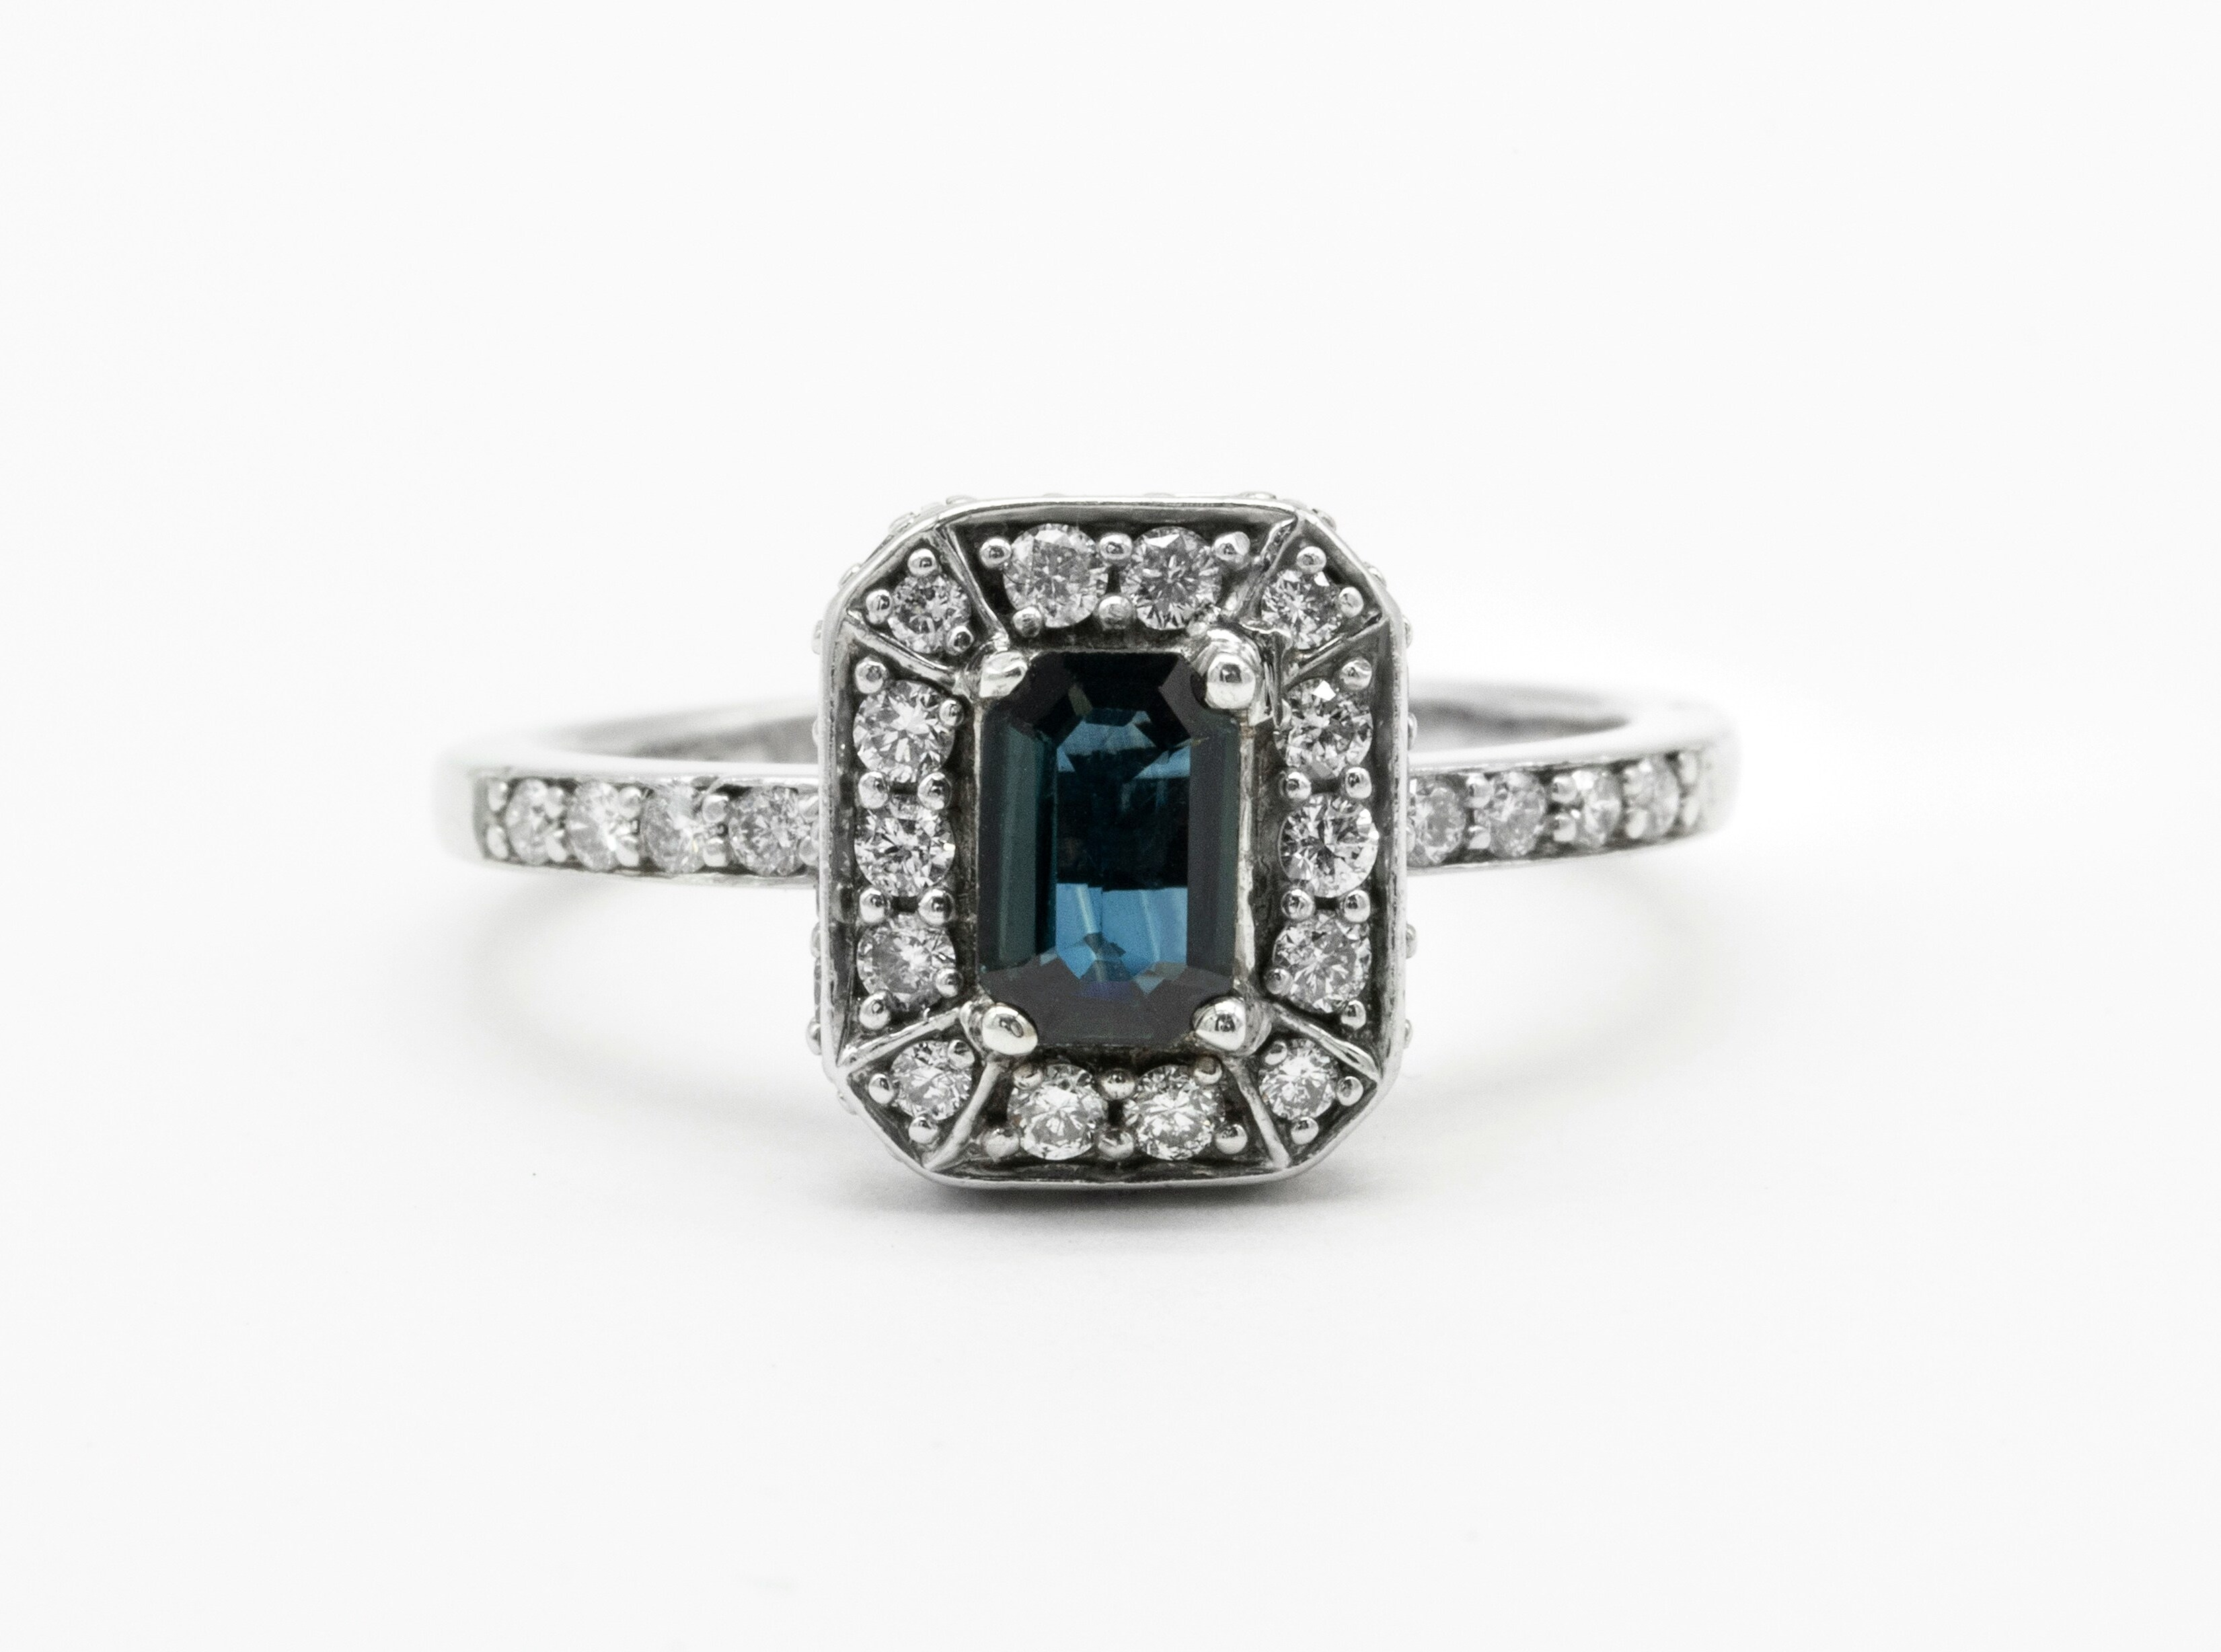
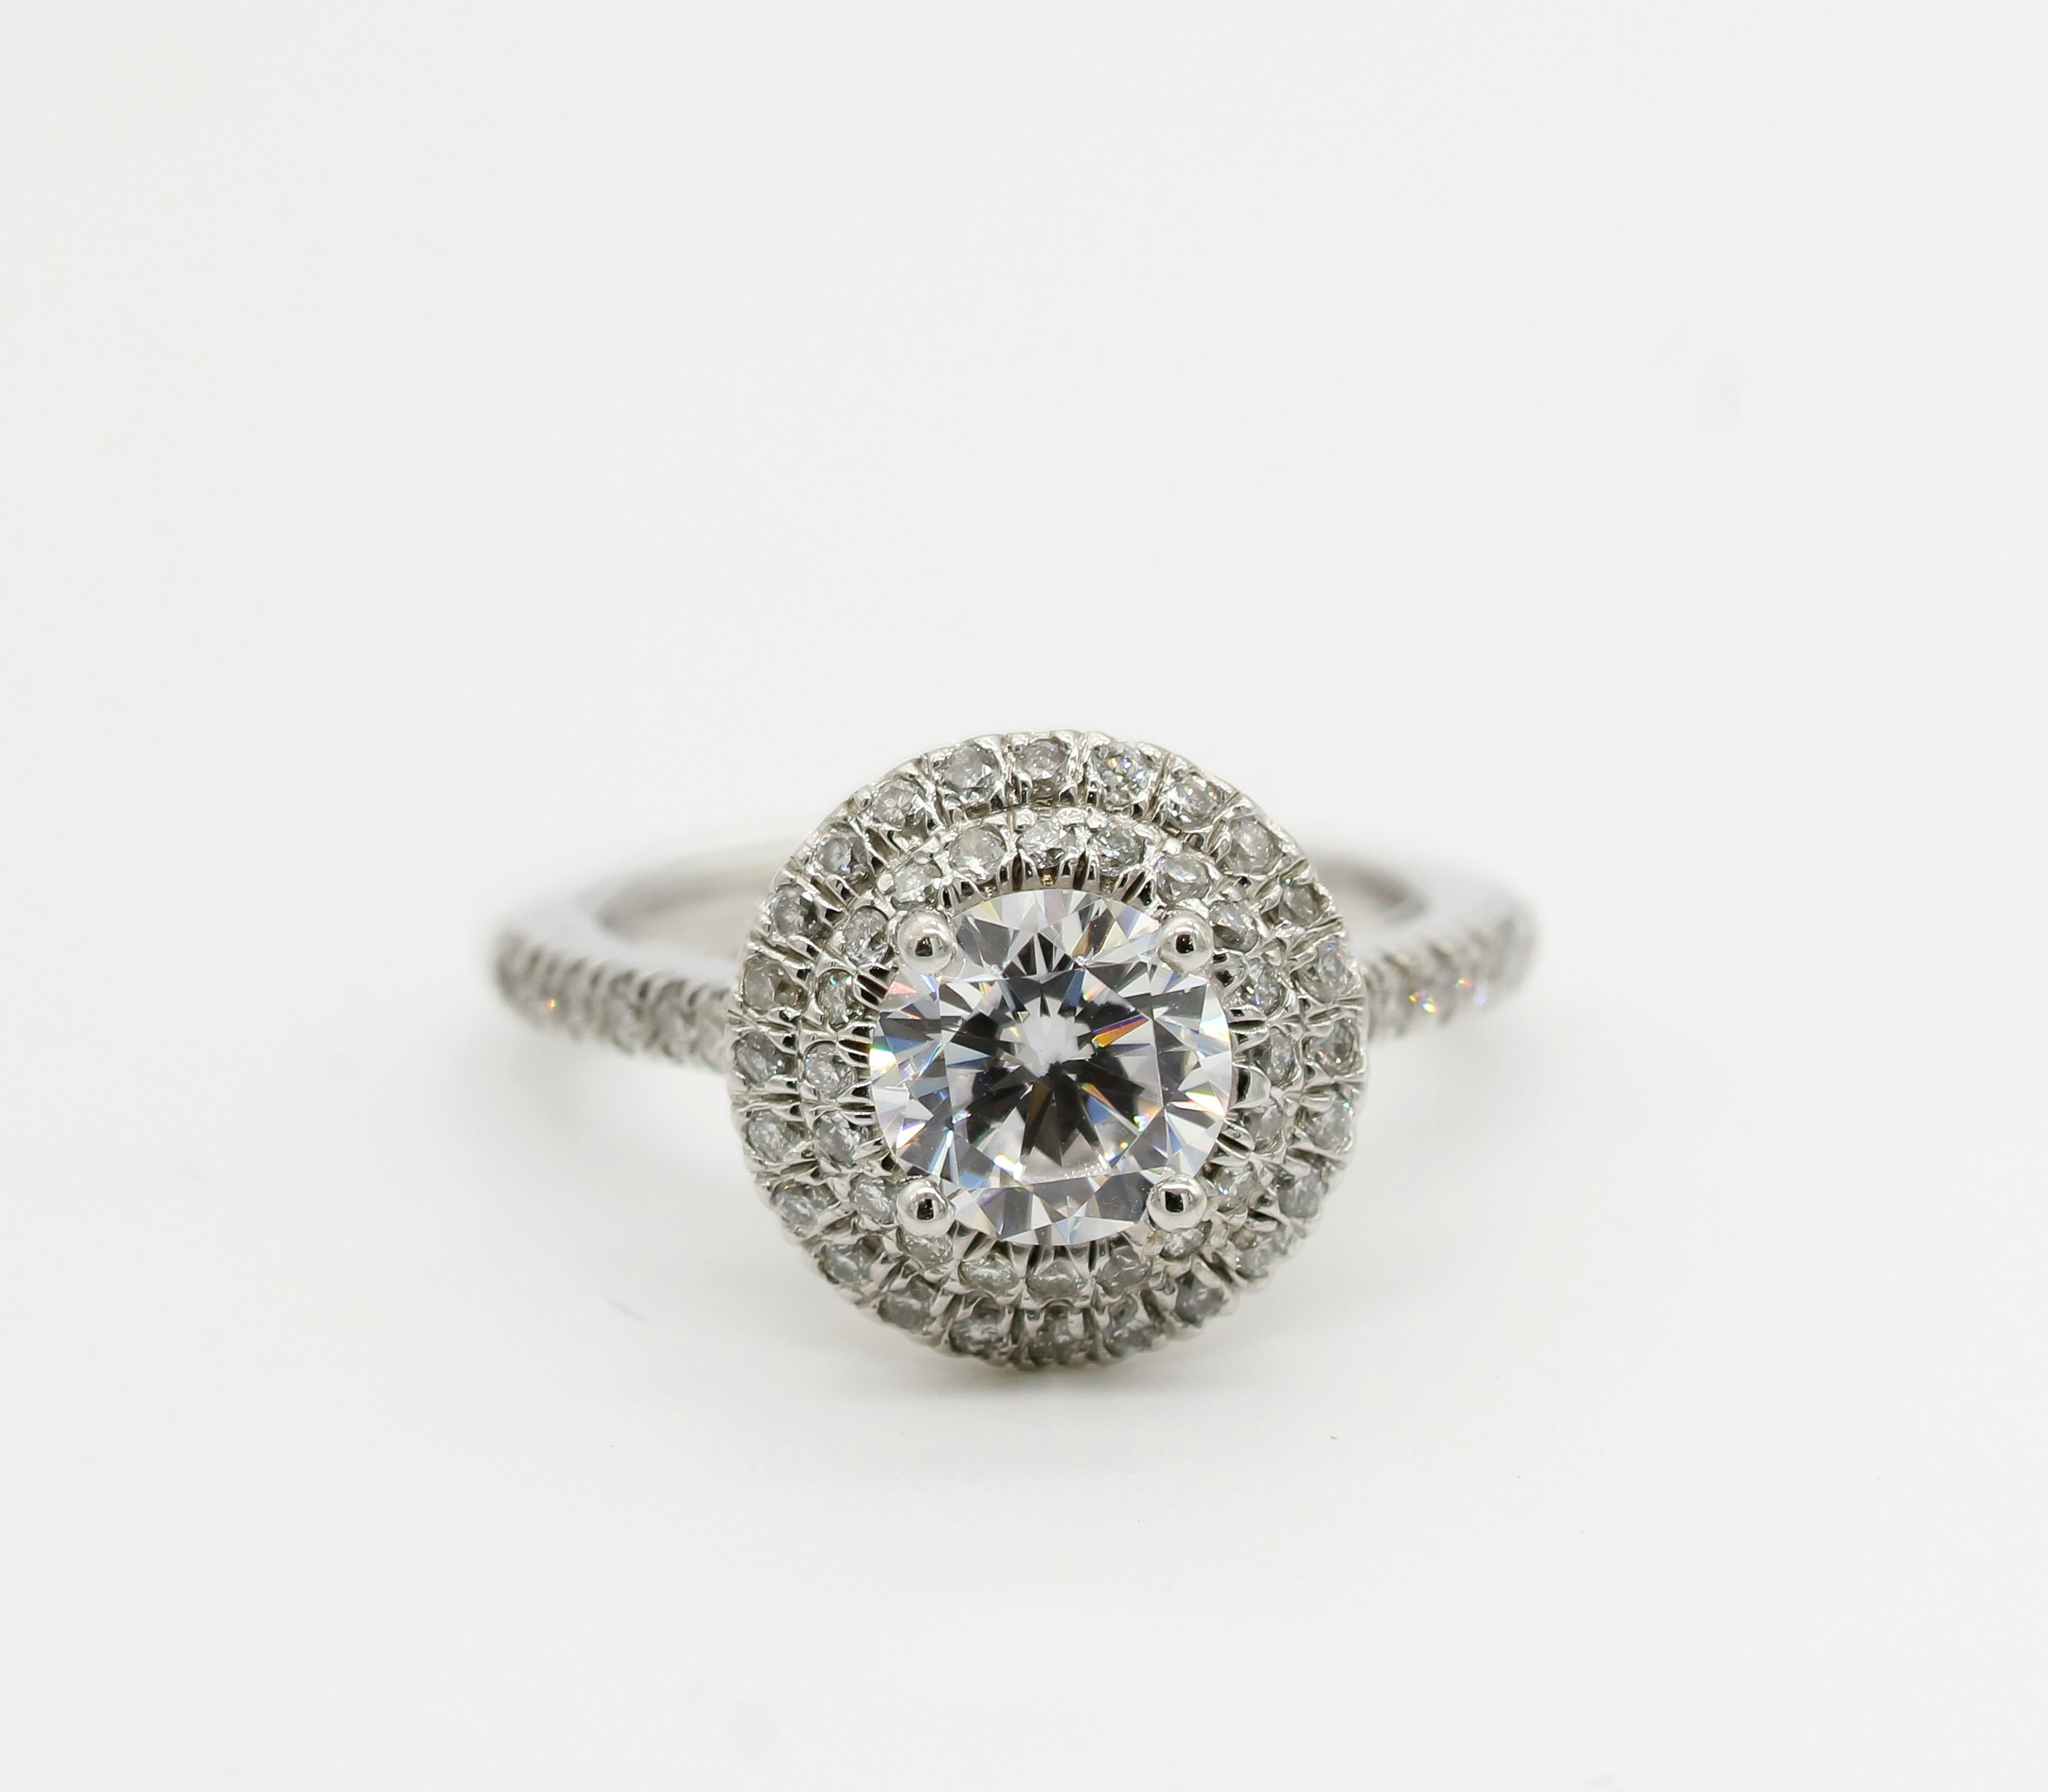
MOD: Fazendo o JavaScript

Changed region(s): [[0.1859, 0.2785, 0.7746, 0.8046]]

diff --git a/templates/index.html b/templates/index.html
@@ -48,11 +48,11 @@
                 Selecionar Categorias
             </button>
             <ul class="dropdown-menu">
-                <li><a class="dropdown-item" href="#" onclick="filtrar('todos')">Todos</a></li>
-                <li><a class="dropdown-item" href="#aneis" onclick="filtrar('aneis')">Anéis</a></li>
-                <li><a class="dropdown-item" href="#" onclick="filtrar('colares')">Colares</a></li>
-                <li><a class="dropdown-item" href="#" onclick="filtrar('brincos')">Brincos</a></li>
-                <li><a class="dropdown-item" href="#" onclick="filtrar('pulseira')">Pulseira</a></li>
+                
+                <li><a class="dropdown-item" href="#aneis" data-filtro="aneis">Anéis</a></li>
+                <li><a class="dropdown-item" href="#colares" data-filtro="colares">Colares</a></li>
+                <li><a class="dropdown-item" href="#brincos" data-filtro="brincos">Brincos</a></li>
+                <li><a class="dropdown-item" href="#pulseiras" data-filtro="pulseiras">Pulseira</a></li>
             </ul>
         </div>
 
@@ -67,42 +67,43 @@
 
 
             <div id="aneis" class="card-aneis">
-                <div class="card" style="width: 18rem;">
+               <div class="card" style="width: 19rem;">
                     <img src="/static/img/anel-1.jpg" class="card-img-top" alt="...">
-                    <div class="card-bodyWhite">
-                        <h5 class="card-textBlack">Anéis</h5>
-                        <p class="card-textBlack">Some quick example text to build on the card title and make up the bulk of
+                    <div class="card-body">
+                        <h5 class="card-text">Anel</h5>
+                        <p class="card-text">Some quick example text to build on the card title and make up the bulk of
                             the card’s content.</p>
                         <a href="#" class="btn btn-primary">Go somewhere</a>
                     </div>
                 </div>
+                
 
             </div>
-            <div class="card-aneis">
-                <div class="card" style="width: 18rem;">
+            <div id="aneis" class="card-aneis">
+                <div class="card" style="width: 19rem;">
                     <img src="/static/img/anel-2.jpg" class="card-img-top" alt="...">
-                    <div class="card-bodyWhite">
-                        <h5 class="card-textBlack">Anéis</h5>
-                        <p class="card-textBlack">Some quick example text to build on the card title and make up the bulk of
+                    <div class="card-body">
+                        <h5 class="card-text">Anel</h5>
+                        <p class="card-text">Some quick example text to build on the card title and make up the bulk of
                             the card’s content.</p>
                         <a href="#" class="btn btn-primary">Go somewhere</a>
                     </div>
                 </div>
 
             </div>
-            <div class="card-aneis">
-                <div class="card" style="width: 18rem;">
+            <div id="aneis" class="card-aneis">
+                <div class="card" style="width: 19rem;">
                     <img src="/static/img/anel-3.jpg" class="card-img-top" alt="...">
-                    <div class="card-bodyWhite">
-                        <h5 class="card-textBlack">Anéis</h5>
-                        <p class="card-textBlack">Some quick example text to build on the card title and make up the bulk of
+                    <div class="card-body">
+                        <h5 class="card-text">Anel</h5>
+                        <p class="card-text">Some quick example text to build on the card title and make up the bulk of
                             the card’s content.</p>
                         <a href="#" class="btn btn-primary">Go somewhere</a>
                     </div>
                 </div>
 
             </div>
-            <div class="card-colares">
+            <div id="colares" class="card-colares">
                 <div class="card" style="width: 19rem;">
                     <img src="/static/img/colar-2.jpg" class="card-img-top" alt="...">
                     <div class="card-body">
@@ -114,7 +115,7 @@
                 </div>
 
             </div>
-            <div class="card-colares">
+            <div id="colares" class="card-colares">
                 <div class="card" style="width: 19rem;">
                     <img src="/static/img/colar-3.jpg" class="card-img-top" alt="...">
                     <div class="card-body">
@@ -126,7 +127,7 @@
                 </div>
 
             </div>
-            <div class="card-colares">
+            <div id="colares" class="card-colares">
                 <div class="card" style="width: 19rem;">
                     <img src="/static/img/colar-4.jpg" class="card-img-top" alt="...">
                     <div class="card-body">
@@ -138,9 +139,9 @@
                 </div>
 
             </div>
-            <div class="card-brincos">
+            <div id="brincos" class="card-brincos">
                 <div class="card" style="width: 19rem;">
-                    <img src="/static/img/image.png" class="card-img-top" alt="...">
+                    <img src="/static/img/brinco-2.jpg" class="card-img-top" alt="...">
                     <div class="card-body">
                         <h5 class="card-text">Brinco</h5>
                         <p class="card-text">Some quick example text to build on the card title and make up the bulk of
@@ -156,7 +157,7 @@
 
 
             </div>
-            <div class="card-brincos">
+            <div id="brincos" class="card-brincos">
                 <div class="card" style="width: 19rem;">
                     <img src="/static/img/brinco-4.jpg" class="card-img-top" alt="...">
                     <div class="card-body">
@@ -168,7 +169,7 @@
                 </div>
 
             </div>
-            <div class="card-brincos">
+            <div id="brincos" class="card-brincos">
                 <div class="card" style="width: 19rem;">
                     <img src="/static/img/brinco-3.png" class="card-img-top" alt="...">
                     <div class="card-body">
@@ -180,13 +181,40 @@
                 </div>
 
             </div>
-            <div class="card-pulseira">
+            <div id="pulseiras" class="card-pulseira">
+                <div class="card" style="width: 19rem;">
+                    <img src="/static/img/pulseira-1.jpg" class="card-img-top" alt="...">
+                    <div class="card-body">
+                        <h5 class="card-text">Pulseira</h5>
+                        <p class="card-text">Some quick example text to build on the card title and make up the bulk of
+                            the card’s content.</p>
+                        <a href="#" class="btn btn-primary">Go somewhere</a>
+                    </div>
+                </div>
 
             </div>
-            <div class="card-pulseira">
+            <div id="pulseiras" class="card-pulseira">
+                <div class="card" style="width: 19rem;">
+                    <img src="/static/img/pulseira-2.jpg" class="card-img-top" alt="...">
+                    <div class="card-body">
+                        <h5 class="card-text">Pulseira</h5>
+                        <p class="card-text">Some quick example text to build on the card title and make up the bulk of
+                            the card’s content.</p>
+                        <a href="#" class="btn btn-primary">Go somewhere</a>
+                    </div>
+                </div>
 
             </div>
-            <div class="card-pulseira">
+            <div id="pulseiras" class="card-pulseira">
+                <div class="card" style="width: 19rem;">
+                    <img src="/static/img/pulseira-3.jpg" class="card-img-top" alt="...">
+                    <div class="card-body">
+                        <h5 class="card-text">Pulseira</h5>
+                        <p class="card-text">Some quick example text to build on the card title and make up the bulk of
+                            the card’s content.</p>
+                        <a href="#" class="btn btn-primary">Go somewhere</a>
+                    </div>
+                </div>
 
             </div>
 

diff --git a/static/css/index.css b/static/css/index.css
@@ -98,25 +98,13 @@
   }
 
 
-  .card-bodyWhite{
-    background-color: #dcd9d9;
-  }
 
   .card-text{
     color: white;
     
   }
 
-  .card-textBlack{
-    color: rgb(0, 0, 0);
-    
-  }
-
-
-  .card-body2{
-    background-color: black;
-  }
-
+ 
 
 
   

diff --git a/static/script/script.js b/static/script/script.js
@@ -14,5 +14,10 @@
         }
 
 
+document.querySelectorAll('.dropdown-item').forEach(opcao => {
+    opcao.addEventListener('click', (evento) =>{
 
+        const categoriaSelecionada = opcao.getAttribute('data-filtro')
+    })
+})
 